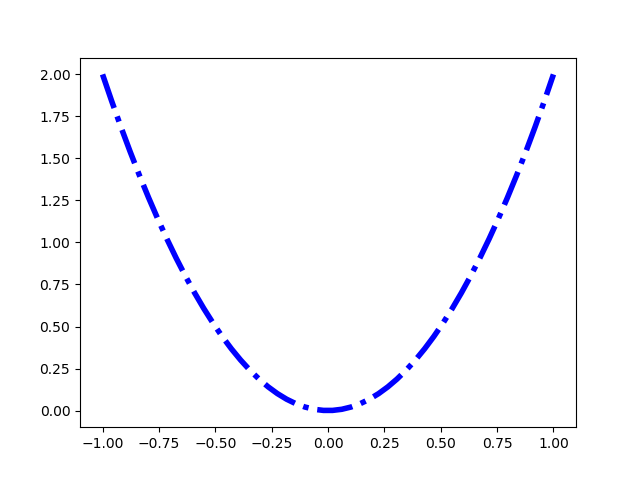
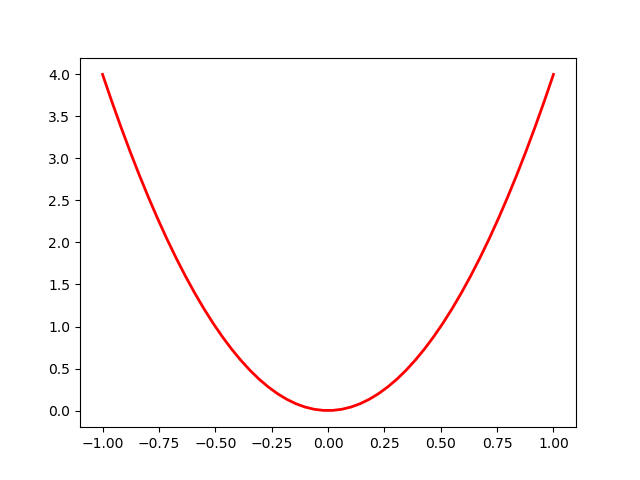
first commit

diff --git a/example.py b/example.py
@@ -2,7 +2,7 @@ import matplotlib.pyplot as plt
 import numpy as np
 
 x = np.linspace(-1, 1, 50)
-y = 2*x*x
+y = 4*x*x
 
-plt.plot(x, y,'b-.',linewidth=4)
+plt.plot(x, y,'r-',linewidth=2)
 plt.savefig('chart.png')

diff --git a/README.md b/README.md
@@ -1,4 +1,4 @@
-# Quadratic Line Chart Bertha 
+# Quadratic Line Chart Melodie 
 
 Example for my book (matplotlib, python)
 
